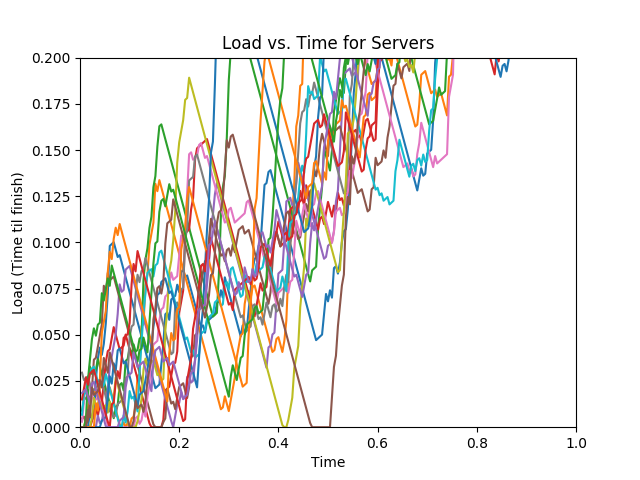
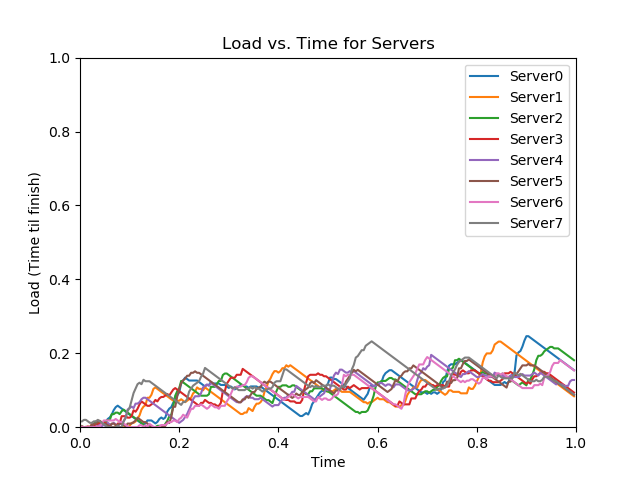
prettier plots

diff --git a/main.py b/main.py
@@ -11,16 +11,16 @@ processing_time = 0.005 # time per packet
 '''
 
 # Packet generation variables
-num_flows = 300
+num_flows = 150
 mean_flow_size = 15
 flow_size_stdev = 2
 max_flow_duration = 0.05
 # Num clients, load balancers, servers
-num_clients = 30
+num_clients = 32
 num_load_balancers = 4
-num_servers = 16
+num_servers = 8
 # Server processing time, time per packet
-processing_time = 0.005
+processing_time = 0.004
 
 #value for powers of x choices
 powers_of_x_value = 3
@@ -191,11 +191,12 @@ def run_load_plotter(servers, assignment_method):
 			times.append(t)
 			loads.append(load)
 
-		plt.plot(np.array([x for x in times]), np.array([y for y in loads]), label = server.id) # , s=5
+		plt.plot(np.array([x for x in times]), np.array([y for y in loads]), label=str("Server" + str(server.id))) # , s=5
+		plt.legend(loc="best")
 		plt.xlabel('Time')
 		plt.ylabel('Load (Time til finish)')
 		plt.title('Load vs. Time for Servers')
-		plt.axis([0, 1, 0, 0.2])
+		plt.axis([0, 1, 0, 1])
 
 	plt.savefig('plots/SmallSystemWithFlows/' + assignment_method + '/LoadVsTimeForServers.png')
 	plt.clf()
@@ -211,11 +212,13 @@ def run_mean_and_stdev_plotter(servers, assignment_method):
 		means.append(mean)
 		stdevs.append(stdev)
 		
-	plt.plot(np.array([x for x in times]), np.array([y for y in means]))
-	plt.plot(np.array([x for x in times]), np.array([y for y in stdevs]))
+	plt.plot(np.array([x for x in times]), np.array([y for y in means]), label="mean")
+	plt.plot(np.array([x for x in times]), np.array([y for y in stdevs]), label="stdev")
+	plt.legend(loc="best")
 	plt.xlabel('Time')
 	plt.ylabel('Mean / stdev server load')
-	plt.title('Mean (blue) and Stdev (orange) of Load vs. Time for Servers')
+	plt.title('Mean and Stdev of Load vs. Time for Servers')
+	plt.axis([0, 1, 0, 1])
 
 	plt.savefig('plots/SmallSystemWithFlows/' + assignment_method + '/MeanAndStdevLoadVsTimeForServers.png')
 	plt.clf()
